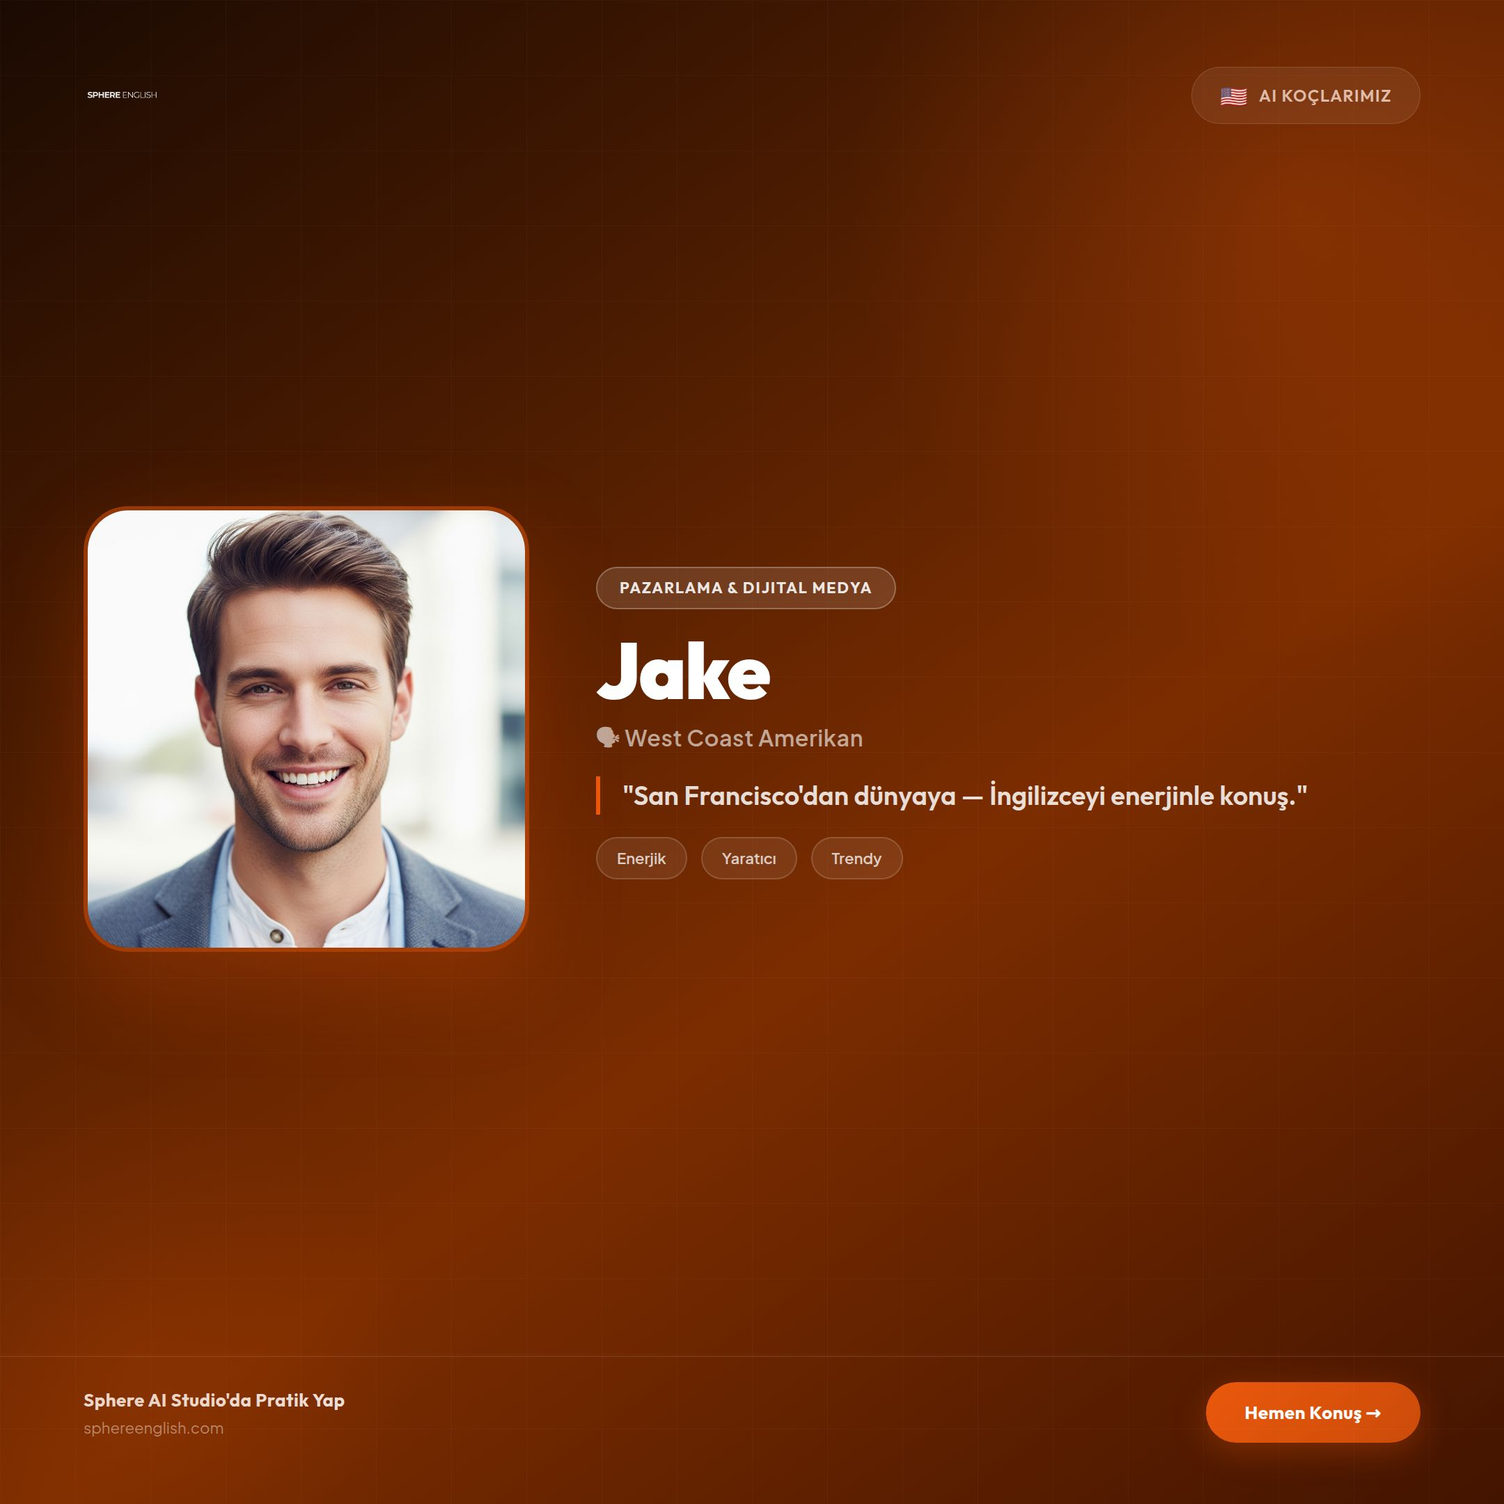
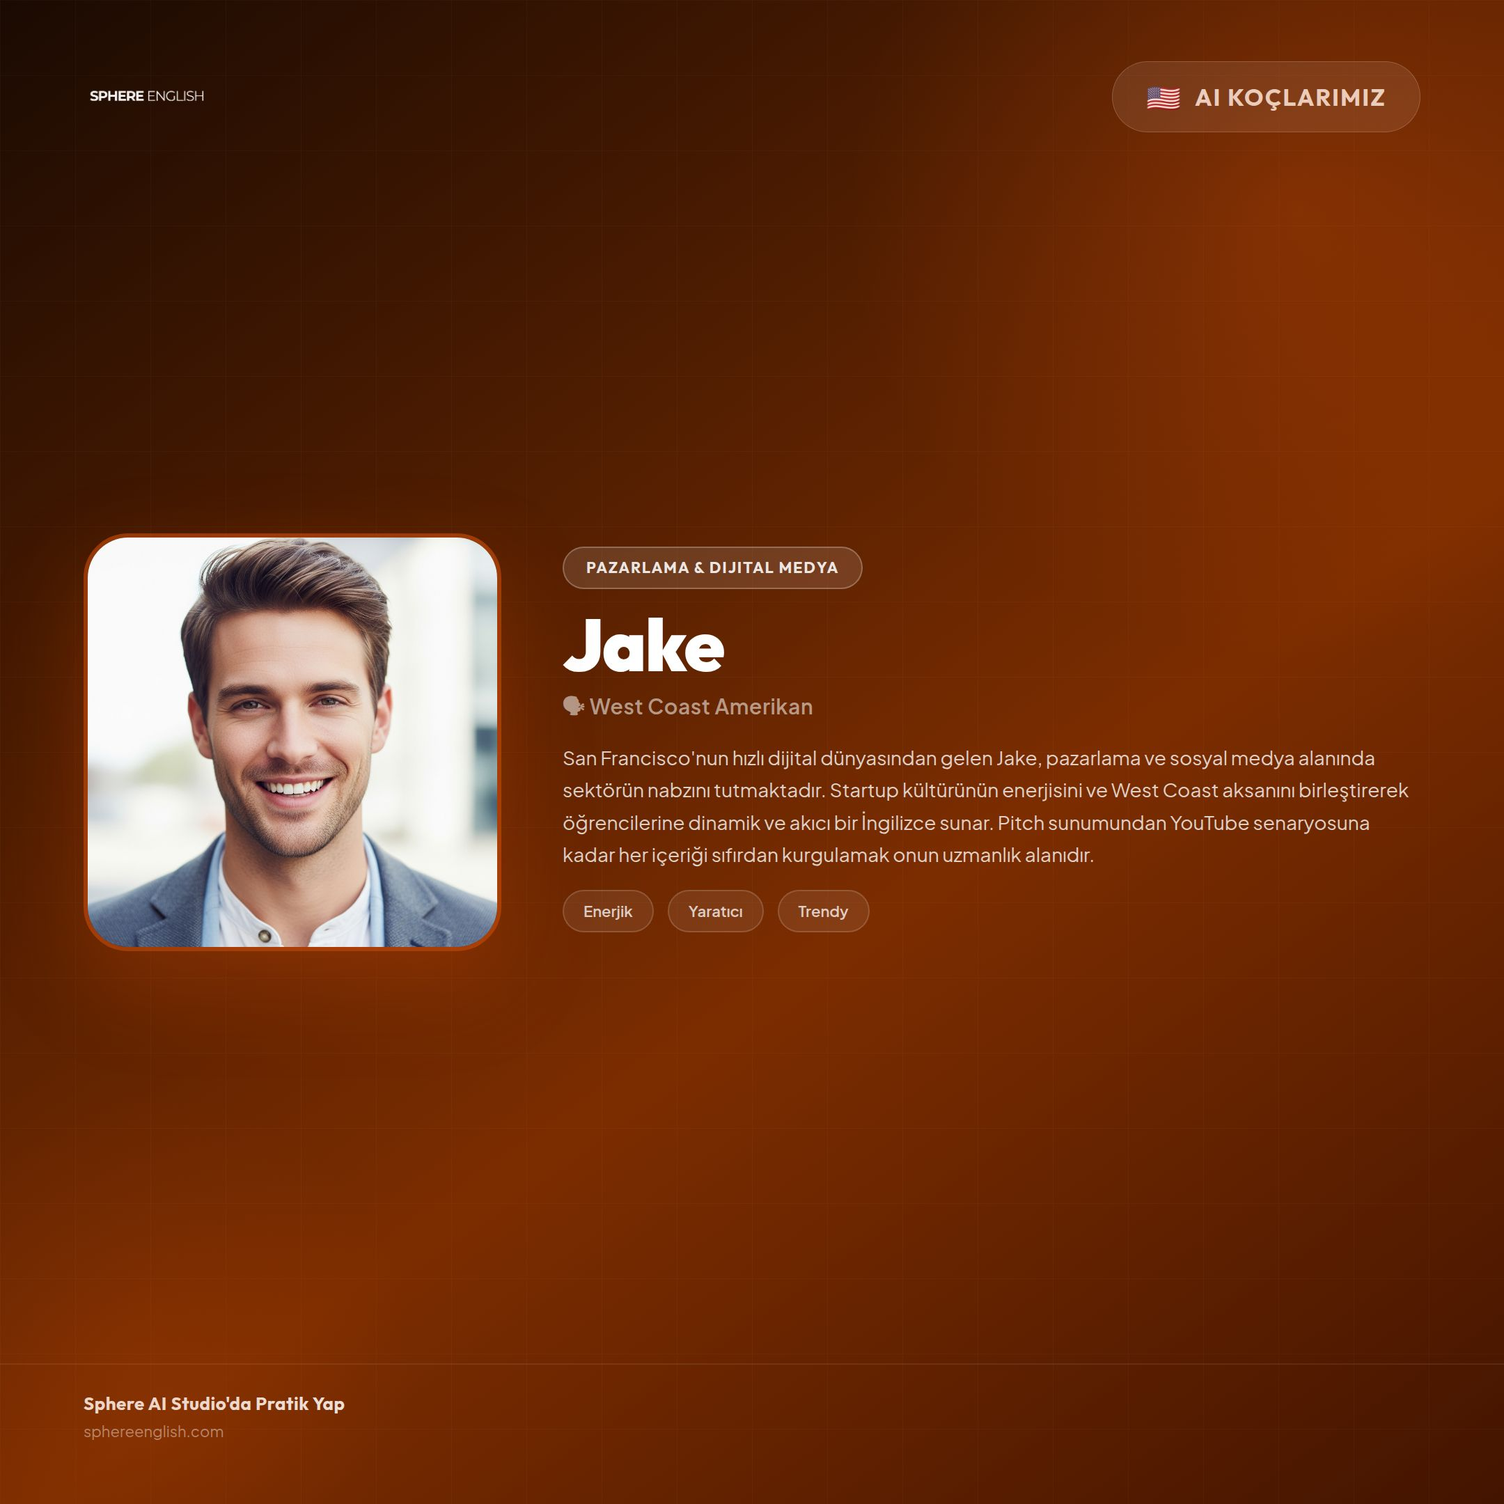
Update coach profiles with new images and descriptive taglines
Updates coach metadata and component logic to reflect new image assets and revised descriptive taglines for each coach, including adjustments to names.

Replit-Commit-Author: Agent
Replit-Commit-Session-Id: 7828208e-226c-43ef-9a3e-875997ce7956
Replit-Commit-Checkpoint-Type: full_checkpoint
Replit-Commit-Event-Id: 932ac0f3-1010-46f9-b4c3-612b4deca99f
Replit-Commit-Screenshot-Url: https://storage.googleapis.com/screenshot-production-us-central1/f780e6cf-cd3b-477f-8b05-3e4b163e7069/7828208e-226c-43ef-9a3e-875997ce7956/u9bSBIu
Replit-Helium-Checkpoint-Created: true

diff --git a/artifacts/mockup-sandbox/src/components/mockups/instagram-post/CoachPost.tsx b/artifacts/mockup-sandbox/src/components/mockups/instagram-post/CoachPost.tsx
@@ -4,18 +4,126 @@ const S = 2;
 const px = (n: number) => n * S;
 
 const COACHES = [
-  { id: "sterling",  name: "Mr. Sterling",  flag: "🇬🇧", specialty: "CEO & Stratejik Yönetim",       accent: "Üst Segment İngiliz (RP)",          color: "#1E3A5F", tagline: "Boardroom'da geçirilen 30 yıl, tek bir cümleye sığar.",  traits: ["Otoriter","Lakonik","Vizyon Odaklı"], image: "coach-sterling.png",      bg: "linear-gradient(145deg,#0a1628 0%,#1E3A5F 60%,#0d2040 100%)" },
-  { id: "jake",      name: "Jake",           flag: "🇺🇸", specialty: "Pazarlama & Dijital Medya",      accent: "West Coast Amerikan",               color: "#EA580C", tagline: "San Francisco'dan dünyaya — İngilizceyi enerjinle konuş.", traits: ["Enerjik","Yaratıcı","Trendy"],         image: "coach-jake.png",          bg: "linear-gradient(145deg,#1a0a02 0%,#7c2d00 60%,#431400 100%)" },
-  { id: "david",     name: "David",          flag: "🇺🇸", specialty: "Finans & Yatırım",              accent: "New York (Wall Street)",            color: "#0369A1", tagline: "Rakamlar yalan söylemez, ama doğru İngilizce konuşmanız gerek.", traits: ["Analitik","Direkt","Risk Odaklı"],     image: "coach-david.png",         bg: "linear-gradient(145deg,#02111f 0%,#0369A1 60%,#013f6b 100%)" },
-  { id: "emma",      name: "Emma",           flag: "🇬🇧", specialty: "İnsan Kaynakları",              accent: "Standart İngiliz (London)",         color: "#BE185D", tagline: "İyi iletişim, her kapıyı açar.",                       traits: ["Empatik","Yapılandırılmış","Destekleyici"], image: "coach-emma-hr.png", bg: "linear-gradient(145deg,#1a0010 0%,#7d0f3d 60%,#3d0020 100%)" },
-  { id: "raj",       name: "Raj",            flag: "🇮🇳", specialty: "BT & Yazılım Geliştirme",       accent: "Hint-İngiliz (Global Tech)",        color: "#7C3AED", tagline: "Bangalore'dan Londra'ya — teknolojiyi İngilizce anlat.", traits: ["Sistematik","Teknik","İş Birlikçi"],   image: "coach-raj.png",           bg: "linear-gradient(145deg,#0d0020 0%,#4c1d95 60%,#2e1065 100%)" },
-  { id: "hans",      name: "Hans",           flag: "🇩🇪", specialty: "Lojistik & Operasyon",          accent: "Alman-İngiliz (Euro-English)",      color: "#4B5563", tagline: "Hamburg'un hassasiyeti, küresel iş İngilizcesiyle buluşuyor.", traits: ["Metodolojik","Hassas","Süreç Odaklı"], image: "coach-hans.png",         bg: "linear-gradient(145deg,#0a0c0f 0%,#1f2937 60%,#111827 100%)" },
-  { id: "elena",     name: "Elena",          flag: "🇪🇺", specialty: "Uluslararası Hukuk",            accent: "Diplomatik (Doğu Avrupa)",          color: "#059669", tagline: "Brüksel müzakere masasında her kelime kritik.",        traits: ["Kesin","Diplomatik","Mükemmeliyetçi"], image: "coach-elena.png",        bg: "linear-gradient(145deg,#00150d 0%,#065F46 60%,#022c20 100%)" },
-  { id: "alistair",  name: "Alistair",       flag: "🏴", specialty: "Satış & Müzakere",          accent: "İskoç (Edinburgh)",                 color: "#DC2626", tagline: "Edinburgh'dan gelen ikna gücü ile her anlaşmayı kapatın.", traits: ["İkna Edici","Stratejik","Israrcı"],    image: "coach-alistair.png",      bg: "linear-gradient(145deg,#1a0000 0%,#7f1d1d 60%,#450a0a 100%)" },
-  { id: "chloe",     name: "Chloe",          flag: "🇦🇺", specialty: "Müşteri İlişkileri",            accent: "Avusturalyalı (Friendly)",          color: "#D97706", tagline: "Sydney'nin sıcaklığıyla müşteri ilişkilerinde fark yarat.", traits: ["Sıcak","Samimi","Çözüm Odaklı"],       image: "coach-chloe.png",         bg: "linear-gradient(145deg,#1a0d00 0%,#78350f 60%,#431b00 100%)" },
-  { id: "james",     name: "James",          flag: "🇺🇸", specialty: "Üretim & Fabrika Yönetimi",    accent: "Amerikan (Midwest)",                color: "#92400E", tagline: "Ohio'dan gelen pratik İngilizce — işe yarar, hızlı etkili.", traits: ["Pratik","Güvenilir","Direkt"],         image: "coach-james-mfg.png",     bg: "linear-gradient(145deg,#140800 0%,#451a03 60%,#1c0a00 100%)" },
-  { id: "claire",    name: "Dr. Claire",     flag: "🇬🇧", specialty: "Gramer & İleri Telaffuz",      accent: "Akademik İngiliz (Oxford)",         color: "#0D9488", tagline: "Oxford kürsüsünden — dil nüanslarını mükemmelleştirin.", traits: ["Titiz","Sabırlı","Akademik"],          image: "coach-claire-grammar.png", bg: "linear-gradient(145deg,#001412 0%,#134e4a 60%,#042f2e 100%)" },
-  { id: "olivia",    name: "Dr. Olivia",     flag: "🇺🇸", specialty: "Sağlık Turizmi İngilizcesi",  accent: "Amerikan (Miami / Sağlık Turizmi)", color: "#0891b2", tagline: "Miami'den küresel hastalara — sağlık İngilizcesini öğrenin.", traits: ["Profesyonel","Kültürel Farkındalıklı","Sıcak"], image: "coach-olivia-health.png", bg: "linear-gradient(145deg,#001520 0%,#164e63 60%,#0a2535 100%)" },
+  {
+    id: "sterling", name: "Mr. Sterling", flag: "🇬🇧",
+    specialty: "CEO & Stratejik Yönetim",
+    accent: "Üst Segment İngiliz (RP)",
+    color: "#1E3A5F",
+    story: "30 yıllık küresel yöneticilik deneyimiyle Mr. Sterling, üst düzey iş İngilizcesinde en yüksek standartları temsil eder. Londra merkezli çalışmalarında CEO'lara ve kıdemli yöneticilere stratejik iletişim koçluğu sunan Sterling, rafine British RP aksanı ve keskin iş zekasıyla her görüşmeyi gerçek bir boardroom deneyimine dönüştürür. Az konuşur, öz konuşur — her cümle yerli yerindedir.",
+    traits: ["Otoriter", "Lakonik", "Vizyon Odaklı"],
+    image: "coach-sterling.png",
+    bg: "linear-gradient(145deg,#0a1628 0%,#1E3A5F 60%,#0d2040 100%)",
+  },
+  {
+    id: "jake", name: "Jake", flag: "🇺🇸",
+    specialty: "Pazarlama & Dijital Medya",
+    accent: "West Coast Amerikan",
+    color: "#EA580C",
+    story: "San Francisco'nun hızlı dijital dünyasından gelen Jake, pazarlama ve sosyal medya alanında sektörün nabzını tutmaktadır. Startup kültürünün enerjisini ve West Coast aksanını birleştirerek öğrencilerine dinamik ve akıcı bir İngilizce sunar. Pitch sunumundan YouTube senaryosuna kadar her içeriği sıfırdan kurgulamak onun uzmanlık alanıdır.",
+    traits: ["Enerjik", "Yaratıcı", "Trendy"],
+    image: "coach-jake.png",
+    bg: "linear-gradient(145deg,#1a0a02 0%,#7c2d00 60%,#431400 100%)",
+  },
+  {
+    id: "david", name: "David", flag: "🇺🇸",
+    specialty: "Finans & Yatırım",
+    accent: "New York (Wall Street)",
+    color: "#0369A1",
+    story: "Wall Street'in tempolu iş dünyasından gelen David, finans ve yatırım terminolojisinde rakipsiz bir uzmanlık taşımaktadır. New York aksanı ve keskin analitik zekasıyla her konuşmayı bir iş müzakeresine dönüştürür. Risk hesaplamaktan bütçe sunumuna kadar her finansal konuşma onunla netlik kazanır.",
+    traits: ["Analitik", "Direkt", "Risk Odaklı"],
+    image: "coach-david.png",
+    bg: "linear-gradient(145deg,#02111f 0%,#0369A1 60%,#013f6b 100%)",
+  },
+  {
+    id: "emma", name: "Emma", flag: "🇬🇧",
+    specialty: "İnsan Kaynakları",
+    accent: "Standart İngiliz (London)",
+    color: "#BE185D",
+    story: "Londra'nın köklü İK geleneğinden beslenen Emma, iş dünyasında insan ilişkilerinin dilini en iyi bilen koçlardandır. Empatik yaklaşımı ve yapılandırılmış metodolojisiyle müzakere, geri bildirim ve ekip iletişimini öğrencileriyle birlikte inşa eder. Her kelime doğru yere oturursa, her kapı açılır.",
+    traits: ["Empatik", "Yapılandırılmış", "Destekleyici"],
+    image: "coach-emma-hr.png",
+    bg: "linear-gradient(145deg,#1a0010 0%,#7d0f3d 60%,#3d0020 100%)",
+  },
+  {
+    id: "raj", name: "Raj", flag: "🇮🇳",
+    specialty: "BT & Yazılım Geliştirme",
+    accent: "Hint-İngiliz (Global Tech)",
+    color: "#7C3AED",
+    story: "Bangalore'daki teknoloji ekosisteminden Londra'nın global sahnesine uzanan yolculuğunda Raj, uluslararası tech İngilizcesinin inceliklerini bizzat yaşayarak öğrendi. Sistematik yaklaşımıyla yazılım geliştirme, proje yönetimi ve uluslararası takım koordinasyonunda dilin nasıl kullanılacağını gösterir. Global Tech aksanıyla öğrencileri Bangalore'dan Silicon Valley'e bağlar.",
+    traits: ["Sistematik", "Teknik", "İş Birlikçi"],
+    image: "coach-raj.png",
+    bg: "linear-gradient(145deg,#0d0020 0%,#4c1d95 60%,#2e1065 100%)",
+  },
+  {
+    id: "hans", name: "Hans", flag: "🇩🇪",
+    specialty: "Lojistik & Operasyon",
+    accent: "Alman-İngiliz (Euro-English)",
+    color: "#4B5563",
+    story: "Hamburg'un köklü lojistik kültüründen gelen Hans, küresel tedarik zinciri ve operasyon yönetiminde iş İngilizcesini titizlikle işler. Metodolojik yapısı ve sürece odaklı yaklaşımıyla teknik raporlama, tedarikçi müzakeresi ve operasyonel iletişimde fark yaratır. Alman hassasiyeti ile Euro-English akıcılığını birleştirerek öğrencilere güvenilir bir profesyonel iletişim zemini oluşturur.",
+    traits: ["Metodolojik", "Hassas", "Süreç Odaklı"],
+    image: "coach-hans.png",
+    bg: "linear-gradient(145deg,#0a0c0f 0%,#1f2937 60%,#111827 100%)",
+  },
+  {
+    id: "elena", name: "Elena", flag: "🇪🇺",
+    specialty: "Uluslararası Hukuk",
+    accent: "Diplomatik (Doğu Avrupa)",
+    color: "#059669",
+    story: "Brüksel'deki uluslararası müzakere masalarından edindiği deneyimle Elena, hukuki ve diplomatik İngilizceyi bir sanat formuna dönüştürmüştür. Doğu Avrupa'nın titiz dil anlayışını küresel hukuk pratiğiyle birleştirerek sözleşme müzakeresi ve uluslararası iletişimde kusursuzluğu hedefler. Onunla her kelime yerli yerindedir, her cümle bir stratejidir.",
+    traits: ["Kesin", "Diplomatik", "Mükemmeliyetçi"],
+    image: "coach-elena.png",
+    bg: "linear-gradient(145deg,#00150d 0%,#065F46 60%,#022c20 100%)",
+  },
+  {
+    id: "alistair", name: "Alistair", flag: "🏴",
+    specialty: "Satış & Müzakere",
+    accent: "İskoç (Edinburgh)",
+    color: "#DC2626",
+    story: "Edinburgh'un ikna kültüründen gelen Alistair, satış ve müzakere alanında İngilizceyi bir güç aracına dönüştürür. İskoç aksanının karakteristik özgüveniyle her müzakere senaryosunu analiz eder ve öğrencilere anlaşma kapatmanın dilini öğretir. Israrcı, stratejik ve ikna edici — Alistair ile her görüşme sonuçla biter.",
+    traits: ["İkna Edici", "Stratejik", "Israrcı"],
+    image: "coach-alistair.png",
+    bg: "linear-gradient(145deg,#1a0000 0%,#7f1d1d 60%,#450a0a 100%)",
+  },
+  {
+    id: "chloe", name: "Chloe", flag: "🇦🇺",
+    specialty: "Müşteri İlişkileri",
+    accent: "Avusturalyalı (Friendly)",
+    color: "#D97706",
+    story: "Sydney'nin güneşli ve samimi atmosferinden gelen Chloe, müşteri ilişkileri İngilizcesini sıcaklık ve profesyonellikle harmanlayan bir uzmandır. Avusturalyalı doğallığı ve çözüm odaklı yaklaşımıyla müşteri görüşmelerini, şikayet yönetimini ve ilişki geliştirmeyi pratikte öğretir. Onunla iletişim kurmak, karşı tarafı kazanmakla başlar.",
+    traits: ["Sıcak", "Samimi", "Çözüm Odaklı"],
+    image: "coach-chloe.png",
+    bg: "linear-gradient(145deg,#1a0d00 0%,#78350f 60%,#431b00 100%)",
+  },
+  {
+    id: "james", name: "James", flag: "🇺🇸",
+    specialty: "Üretim & Fabrika Yönetimi",
+    accent: "Amerikan (Midwest)",
+    color: "#92400E",
+    story: "Ohio'nun sanayi kültüründen gelen James, üretim ve fabrika yönetiminde işlevsel ve direkt bir İngilizce anlayışı geliştirmiştir. Pratik ve güvenilir yaklaşımıyla teknik toplantılardan üretim raporlarına kadar her ortamda etkili iletişim kurmayı öğretir. Lüks değil, işlevsellik — her cümle doğrudan hedefe gider.",
+    traits: ["Pratik", "Güvenilir", "Direkt"],
+    image: "coach-james-mfg.png",
+    bg: "linear-gradient(145deg,#140800 0%,#451a03 60%,#1c0a00 100%)",
+  },
+  {
+    id: "claire", name: "Dr. Claire", flag: "🇬🇧",
+    specialty: "Gramer & İleri Telaffuz",
+    accent: "Akademik İngiliz (Oxford)",
+    color: "#0D9488",
+    story: "Oxford'un akademik disiplininden gelen Dr. Claire, gramer ve telaffuz konusundaki uzmanlığını titizlikle öğrencilerine aktarır. İngilizce dil yapısını derinlemesine analiz ederek fonetikten sözdizime kadar her nüansı sabırla ele alır. Akademik mükemmeliyeti ve yapılandırılmış öğretim yöntemiyle dili gerçek anlamda özümsemenizi sağlar.",
+    traits: ["Titiz", "Sabırlı", "Akademik"],
+    image: "coach-claire-grammar.png",
+    bg: "linear-gradient(145deg,#001412 0%,#134e4a 60%,#042f2e 100%)",
+  },
+  {
+    id: "olivia", name: "Dr. Olivia", flag: "🇺🇸",
+    specialty: "Sağlık Turizmi İngilizcesi",
+    accent: "Amerikan (Miami / Sağlık Turizmi)",
+    color: "#0891b2",
+    story: "Miami'nin uluslararası sağlık turizmi dünyasından gelen Dr. Olivia, tıp ve sağlık alanında İngilizceyi kültürel farkındalıkla birleştiren bir uzmandır. Hasta iletişiminden sağlık turizmi danışmanlığına kadar her senaryoda profesyonel ve empatik bir dil kullanımını öğretir. Küresel hastalara hizmet verecek sağlık profesyonelleri için biçilmiş kaftandır.",
+    traits: ["Profesyonel", "Kültürel Farkındalıklı", "Sıcak"],
+    image: "coach-olivia-health.png",
+    bg: "linear-gradient(145deg,#001520 0%,#164e63 60%,#0a2535 100%)",
+  },
 ];
 
 export default function CoachPost() {
@@ -56,36 +164,35 @@ export default function CoachPost() {
       }}/>
 
       {/* ── TOP BAR ── */}
-      <div style={{ display:"flex", alignItems:"center", justifyContent:"space-between", padding:`${px(48)}px ${px(60)}px 0` }}>
+      <div style={{ display:"flex", alignItems:"center", justifyContent:"space-between", padding:`${px(44)}px ${px(60)}px 0` }}>
         <img src="/images/logo-full.png" alt="Sphere English"
-          style={{ height:px(28), width:"auto", filter:"brightness(0) invert(1)", objectFit:"contain", opacity:0.9 }}
+          style={{ height:px(46), width:"auto", filter:"brightness(0) invert(1)", objectFit:"contain", opacity:0.95 }}
         />
         <div style={{
-          display:"flex", alignItems:"center", gap:px(8),
-          background:"rgba(255,255,255,0.08)", border:"1px solid rgba(255,255,255,0.15)",
-          borderRadius:px(100), padding:`${px(8)}px ${px(20)}px`,
+          display:"flex", alignItems:"center", gap:px(10),
+          background:"rgba(255,255,255,0.10)", border:"1px solid rgba(255,255,255,0.20)",
+          borderRadius:px(100), padding:`${px(10)}px ${px(24)}px`,
         }}>
-          <span style={{ fontSize:px(16) }}>{coach.flag}</span>
-          <span style={{ fontFamily:"'Outfit',sans-serif", fontWeight:600, fontSize:px(12),
-            color:"rgba(255,255,255,0.8)", letterSpacing:"0.06em" }}>
+          <span style={{ fontSize:px(20) }}>{coach.flag}</span>
+          <span style={{ fontFamily:"'Outfit',sans-serif", fontWeight:700, fontSize:px(17),
+            color:"rgba(255,255,255,0.90)", letterSpacing:"0.06em" }}>
             AI KOÇLARIMIZ
           </span>
         </div>
       </div>
 
       {/* ── MAIN CONTENT ── */}
-      <div style={{ flex:1, display:"flex", alignItems:"center", padding:`0 ${px(60)}px ${px(16)}px`, gap:px(48) }}>
+      <div style={{ flex:1, display:"flex", alignItems:"center", padding:`0 ${px(60)}px ${px(8)}px`, gap:px(44) }}>
 
         {/* Coach photo */}
         <div style={{ position:"relative", flexShrink:0 }}>
-          {/* Glow ring behind photo */}
           <div style={{
             position:"absolute", inset:px(-12), borderRadius:"50%",
             background:`radial-gradient(circle, ${coach.color}50 0%, transparent 70%)`,
             filter:`blur(${px(16)}px)`,
           }}/>
           <div style={{
-            width:px(320), height:px(320), borderRadius:px(32), overflow:"hidden",
+            width:px(300), height:px(300), borderRadius:px(32), overflow:"hidden",
             border:`${px(3)}px solid ${coach.color}80`,
             boxShadow:`0 ${px(24)}px ${px(64)}px ${coach.color}40`,
             position:"relative",
@@ -97,7 +204,7 @@ export default function CoachPost() {
         </div>
 
         {/* Info */}
-        <div style={{ flex:1, display:"flex", flexDirection:"column", gap:px(16), paddingBottom:px(8) }}>
+        <div style={{ flex:1, display:"flex", flexDirection:"column", gap:px(14), paddingBottom:px(4) }}>
 
           {/* Specialty tag */}
           <div style={{
@@ -113,22 +220,22 @@ export default function CoachPost() {
 
           {/* Name */}
           <div>
-            <h2 style={{ fontFamily:"'Outfit',sans-serif", fontWeight:900, fontSize:px(56),
+            <h2 style={{ fontFamily:"'Outfit',sans-serif", fontWeight:900, fontSize:px(52),
               color:"#fff", margin:0, lineHeight:1.0, letterSpacing:"-0.02em" }}>
               {coach.name}
             </h2>
-            <p style={{ fontFamily:"'Plus Jakarta Sans',sans-serif", fontWeight:600, fontSize:px(16),
-              color:"rgba(255,255,255,0.60)", margin:`${px(8)}px 0 0`, letterSpacing:"0.02em" }}>
+            <p style={{ fontFamily:"'Plus Jakarta Sans',sans-serif", fontWeight:600, fontSize:px(15),
+              color:"rgba(255,255,255,0.55)", margin:`${px(7)}px 0 0`, letterSpacing:"0.02em" }}>
               🗣 {coach.accent}
             </p>
           </div>
 
-          {/* Tagline */}
-          <p style={{ fontFamily:"'Outfit',sans-serif", fontWeight:600, fontSize:px(19),
-            color:"rgba(255,255,255,0.85)", lineHeight:1.45, margin:0,
-            borderLeft:`${px(3)}px solid ${coach.color}`, paddingLeft:px(16),
+          {/* Story */}
+          <p style={{
+            fontFamily:"'Plus Jakarta Sans',sans-serif", fontWeight:400, fontSize:px(14),
+            color:"rgba(255,255,255,0.80)", lineHeight:1.65, margin:0,
           }}>
-            "{coach.tagline}"
+            {coach.story}
           </p>
 
           {/* Trait chips */}
@@ -150,7 +257,7 @@ export default function CoachPost() {
 
       {/* ── BOTTOM BAR ── */}
       <div style={{
-        display:"flex", alignItems:"center", justifyContent:"space-between",
+        display:"flex", alignItems:"center",
         padding:`${px(18)}px ${px(60)}px ${px(44)}px`,
         borderTop:`${px(1)}px solid rgba(255,255,255,0.08)`,
       }}>
@@ -163,17 +270,6 @@ export default function CoachPost() {
             color:"rgba(255,255,255,0.45)" }}>
             sphereenglish.com
           </span>
-        </div>
-
-        {/* CTA */}
-        <div style={{
-          background:`linear-gradient(135deg, ${coach.color}, ${coach.color}cc)`,
-          borderRadius:px(100), padding:`${px(12)}px ${px(28)}px`,
-          fontFamily:"'Outfit',sans-serif", fontWeight:700, fontSize:px(13),
-          color:"#fff", boxShadow:`0 ${px(6)}px ${px(24)}px ${coach.color}50`,
-          letterSpacing:"0.02em",
-        }}>
-          Hemen Konuş →
         </div>
       </div>
     </div>
